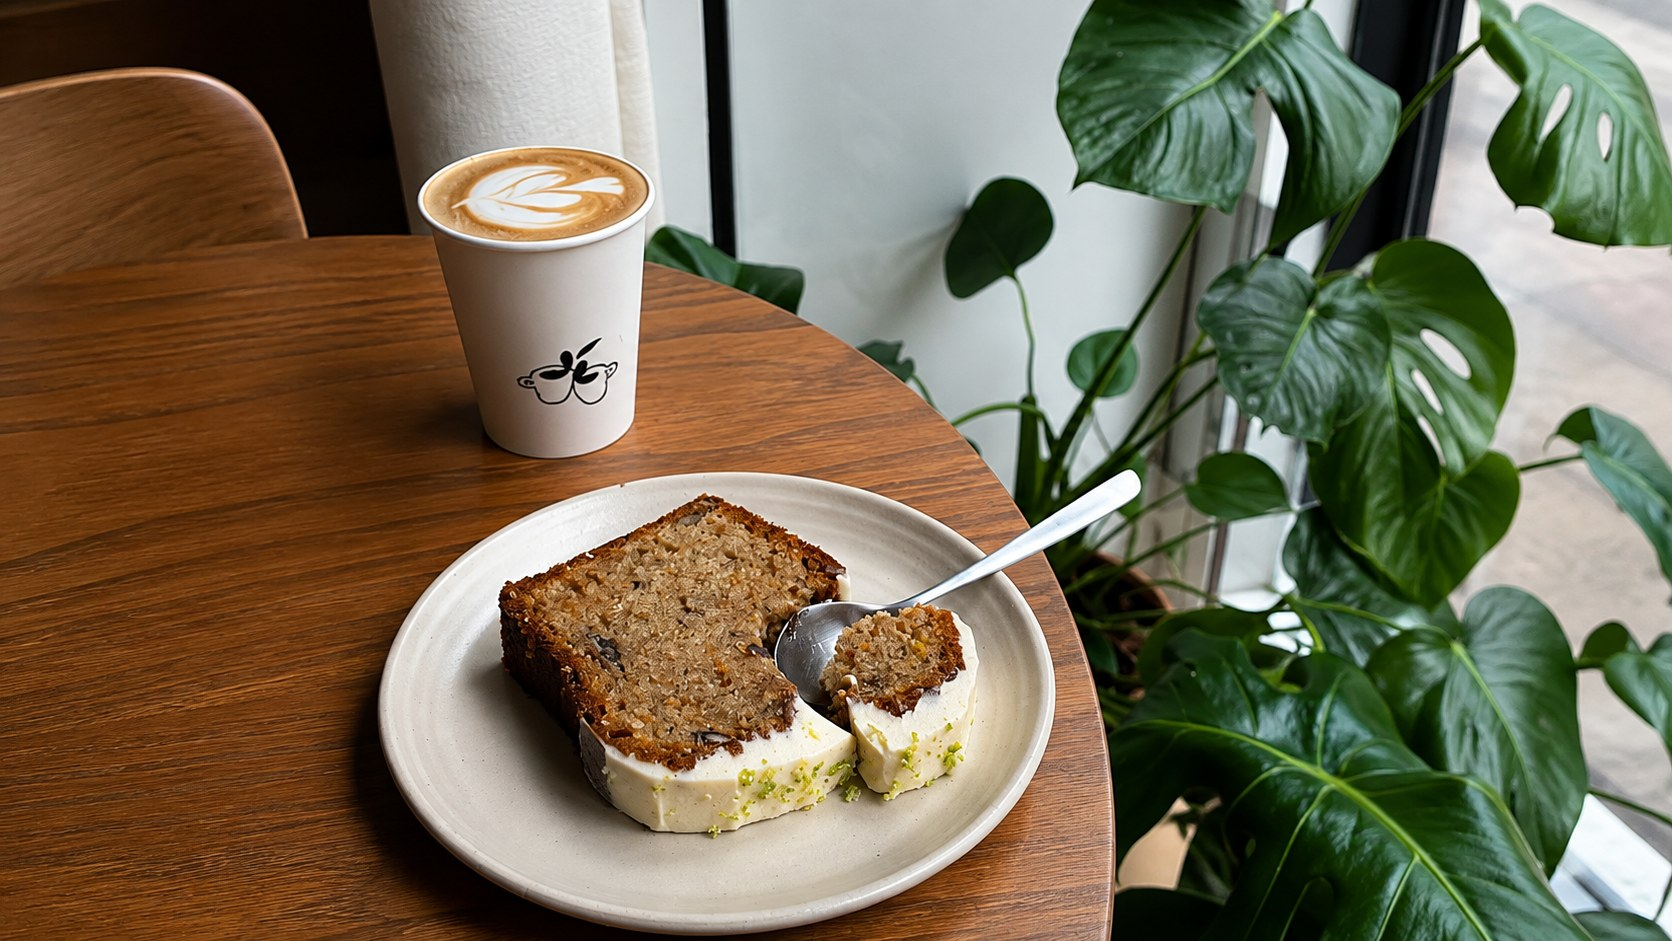
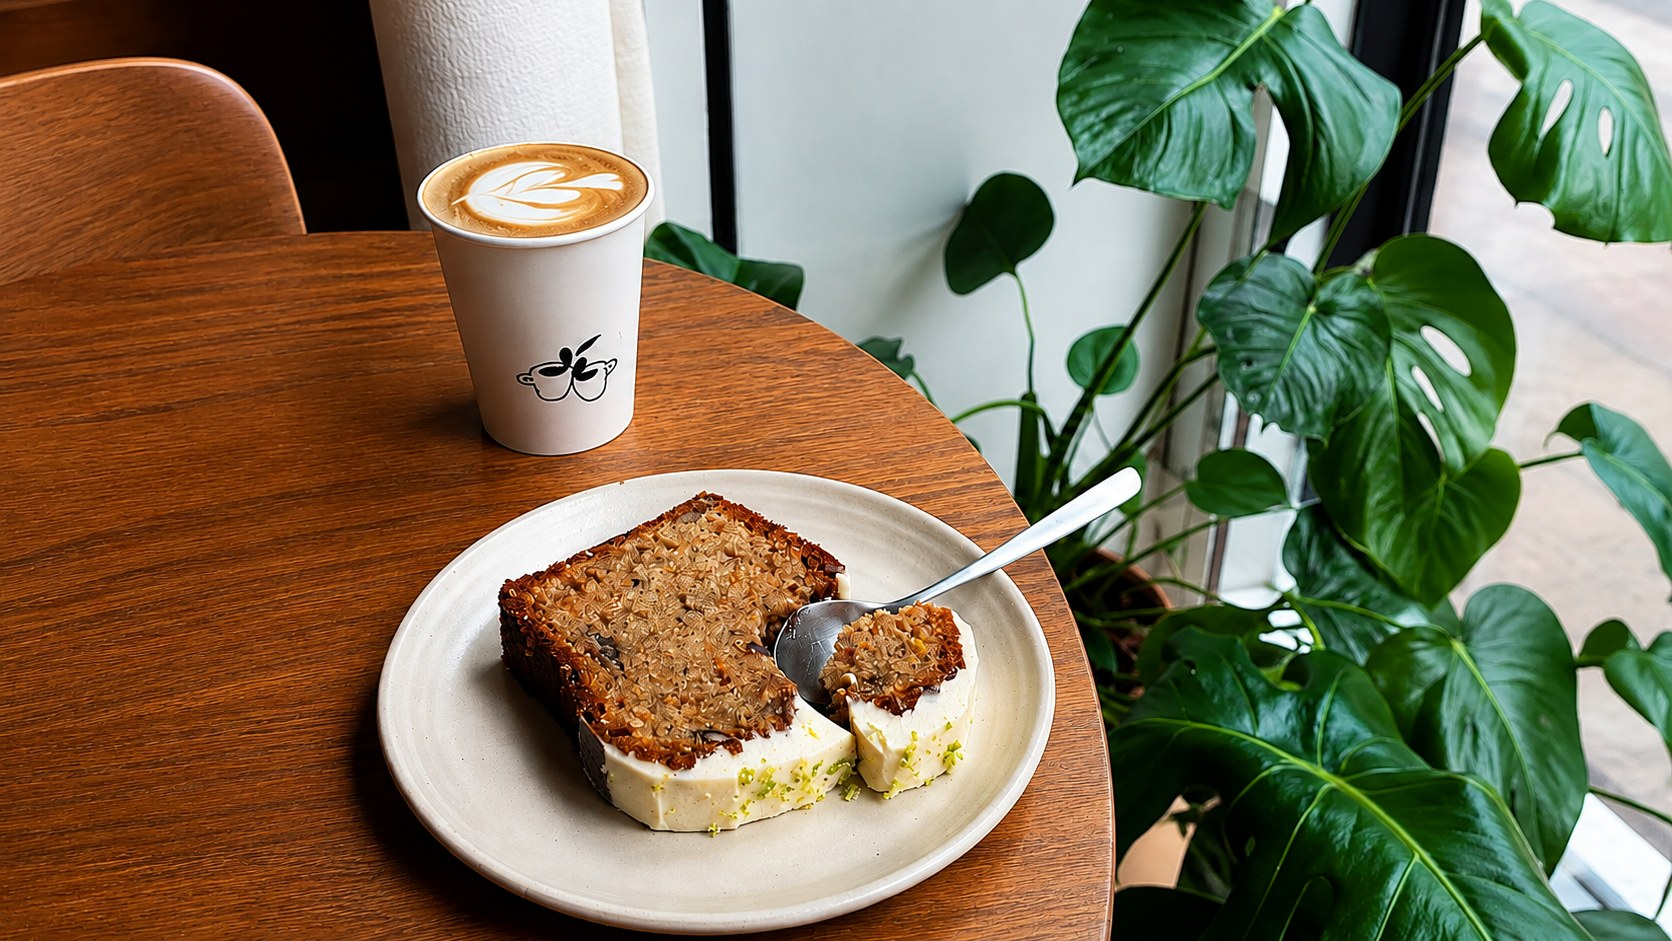
Le carrot cake en pleine largeur sur l'accueil
Remplace la table vue de dessus. Version large en 16:9 sur ecran,
version portrait sur telephone : la meme scene, cadree pour chaque
format plutot qu'un 16:9 rogne.

carrot-cake.jpg avait ete supprime avec le lot ; il est repris depuis
l'historique, il sert aussi aux Favoris et a la grille Instagram.

Le fichier livre fait 1 672 px de large, comme le precedent : en
plein cadre sur un ecran large il reste agrandi. Il faut l'original
4K pour que ce soit net.

diff --git a/app/page.jsx b/app/page.jsx
@@ -27,8 +27,8 @@ export default function Home() {
       </section>
 
       <Reveal kind="clip" className="bleed">
-        <Photo photo={P.spread} ratio="3 / 2" sizes="100vw" className="bleed-lg" />
-        <Photo photo={P.spread} ratio="4 / 5" sizes="100vw" className="bleed-sm" />
+        <Photo photo={P.carrotCakeWide} sizes="100vw" className="bleed-lg" />
+        <Photo photo={P.carrotCake} ratio="4 / 5" sizes="100vw" className="bleed-sm" />
       </Reveal>
 
       <Favoris />
